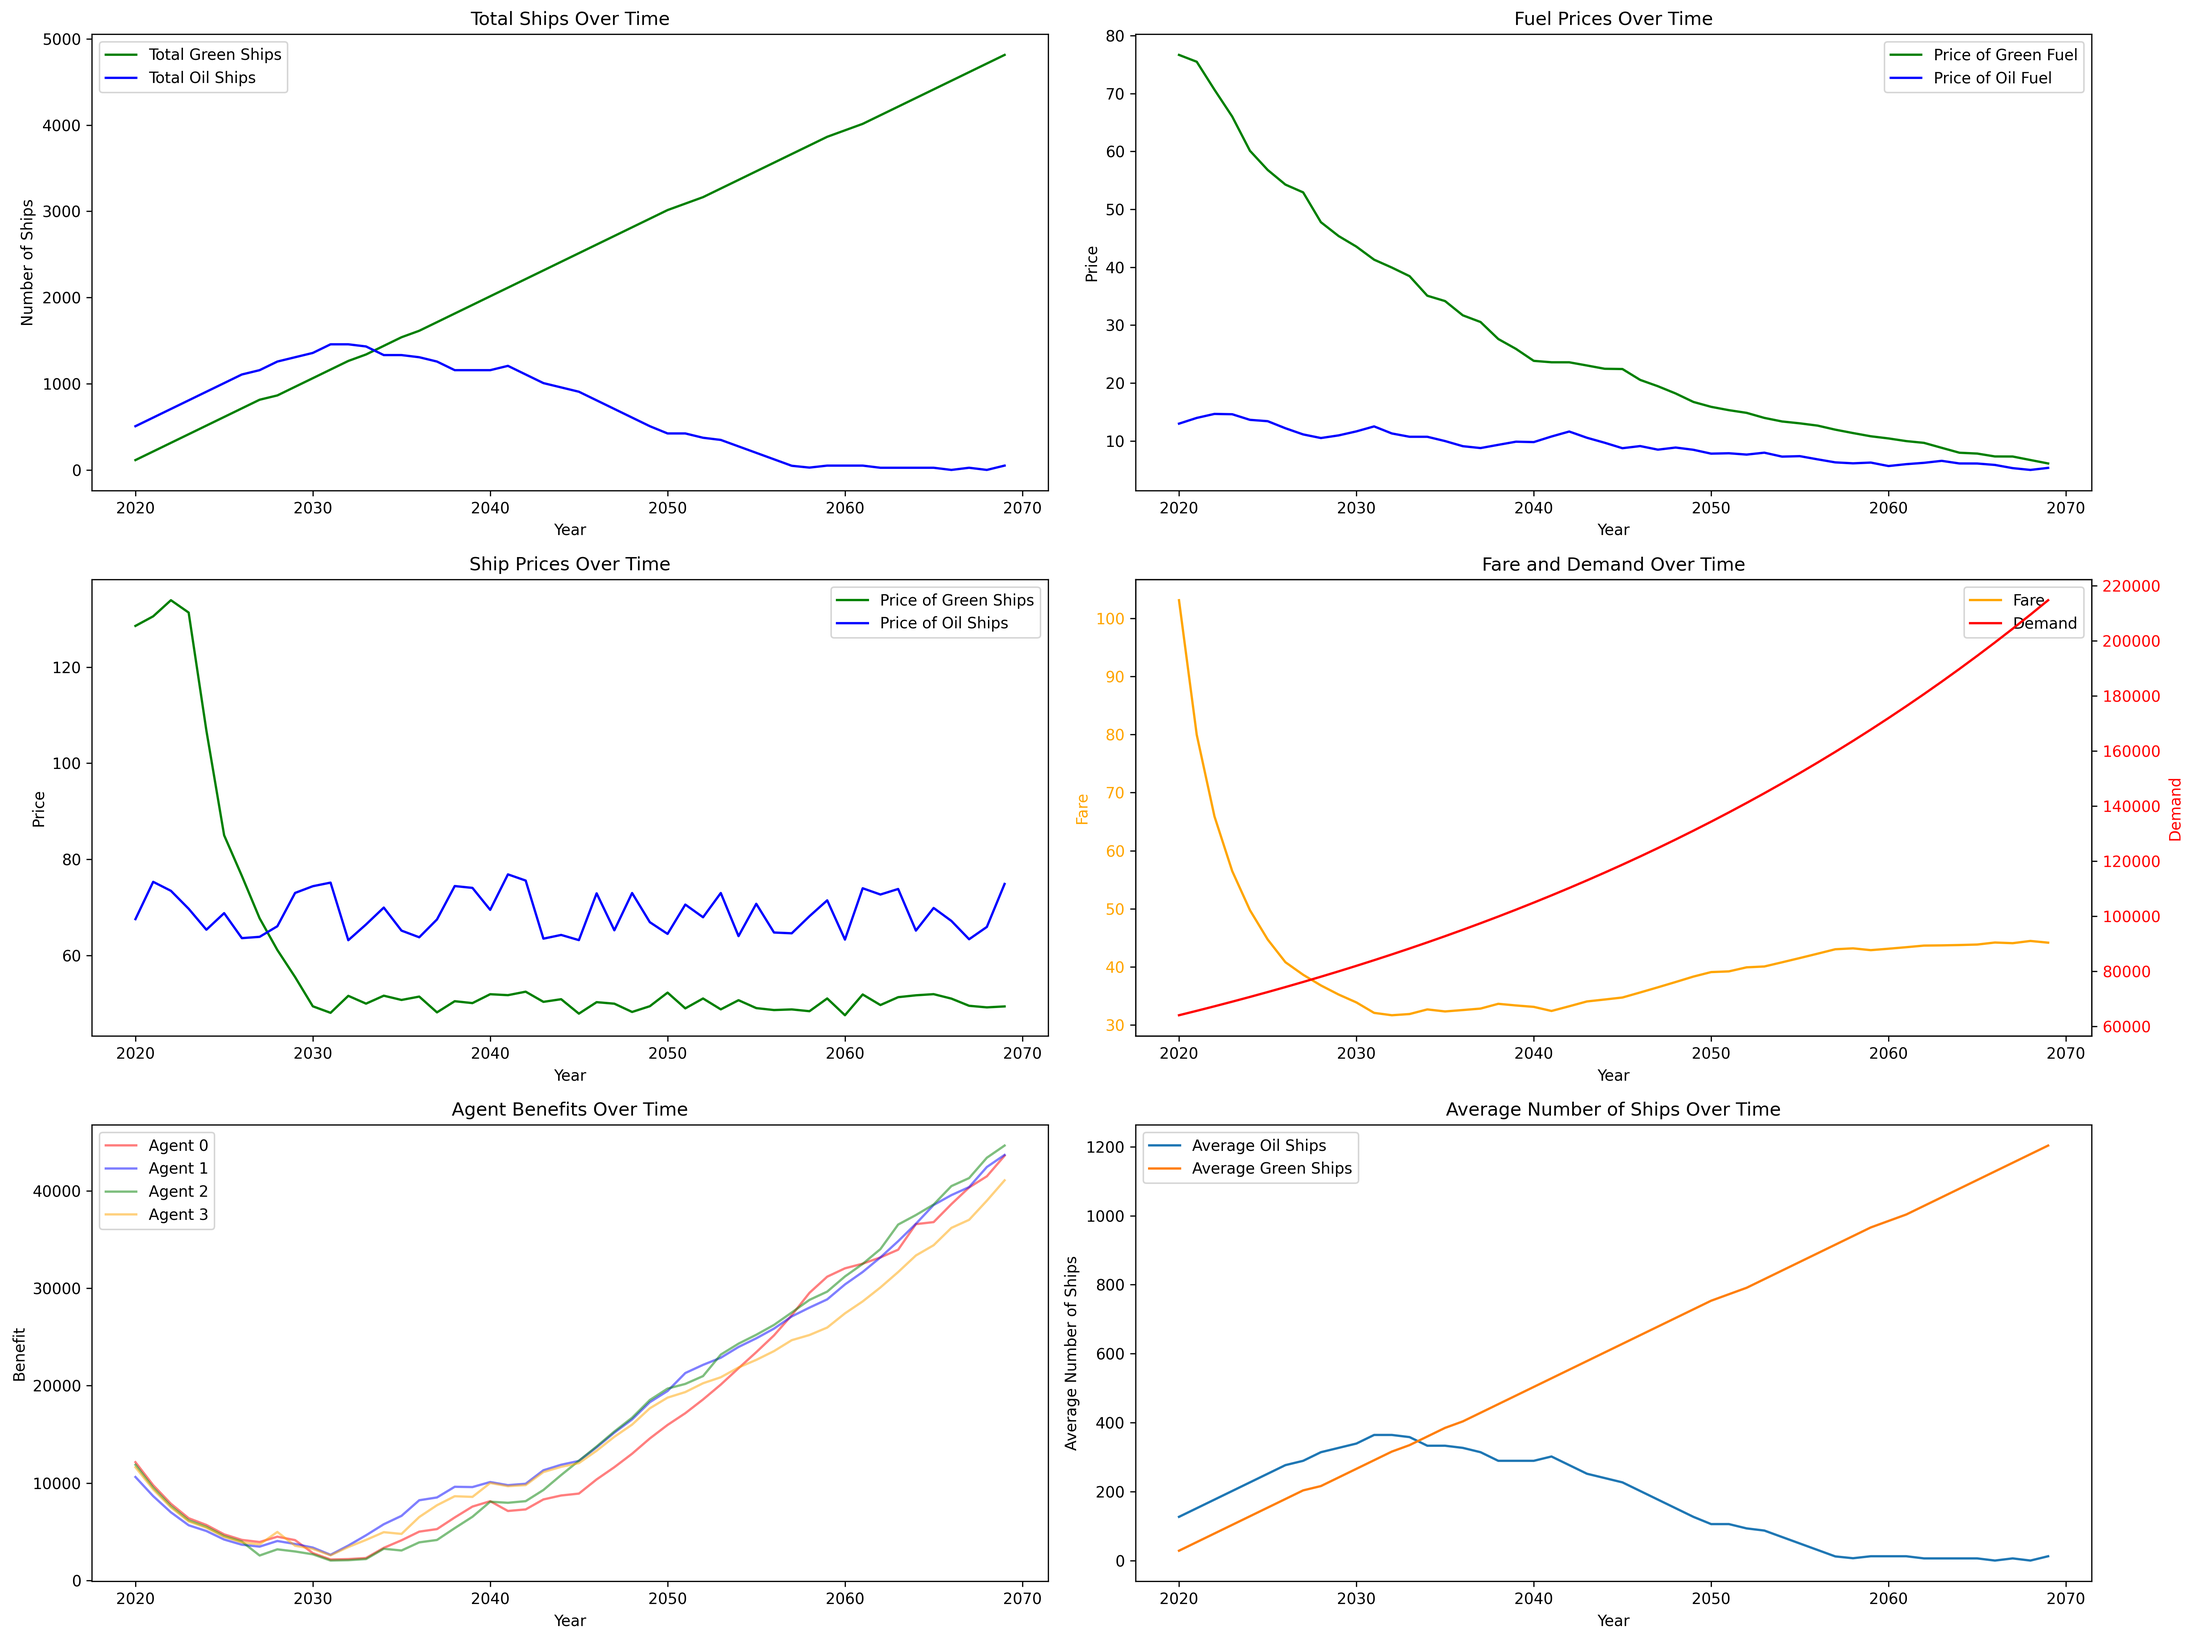
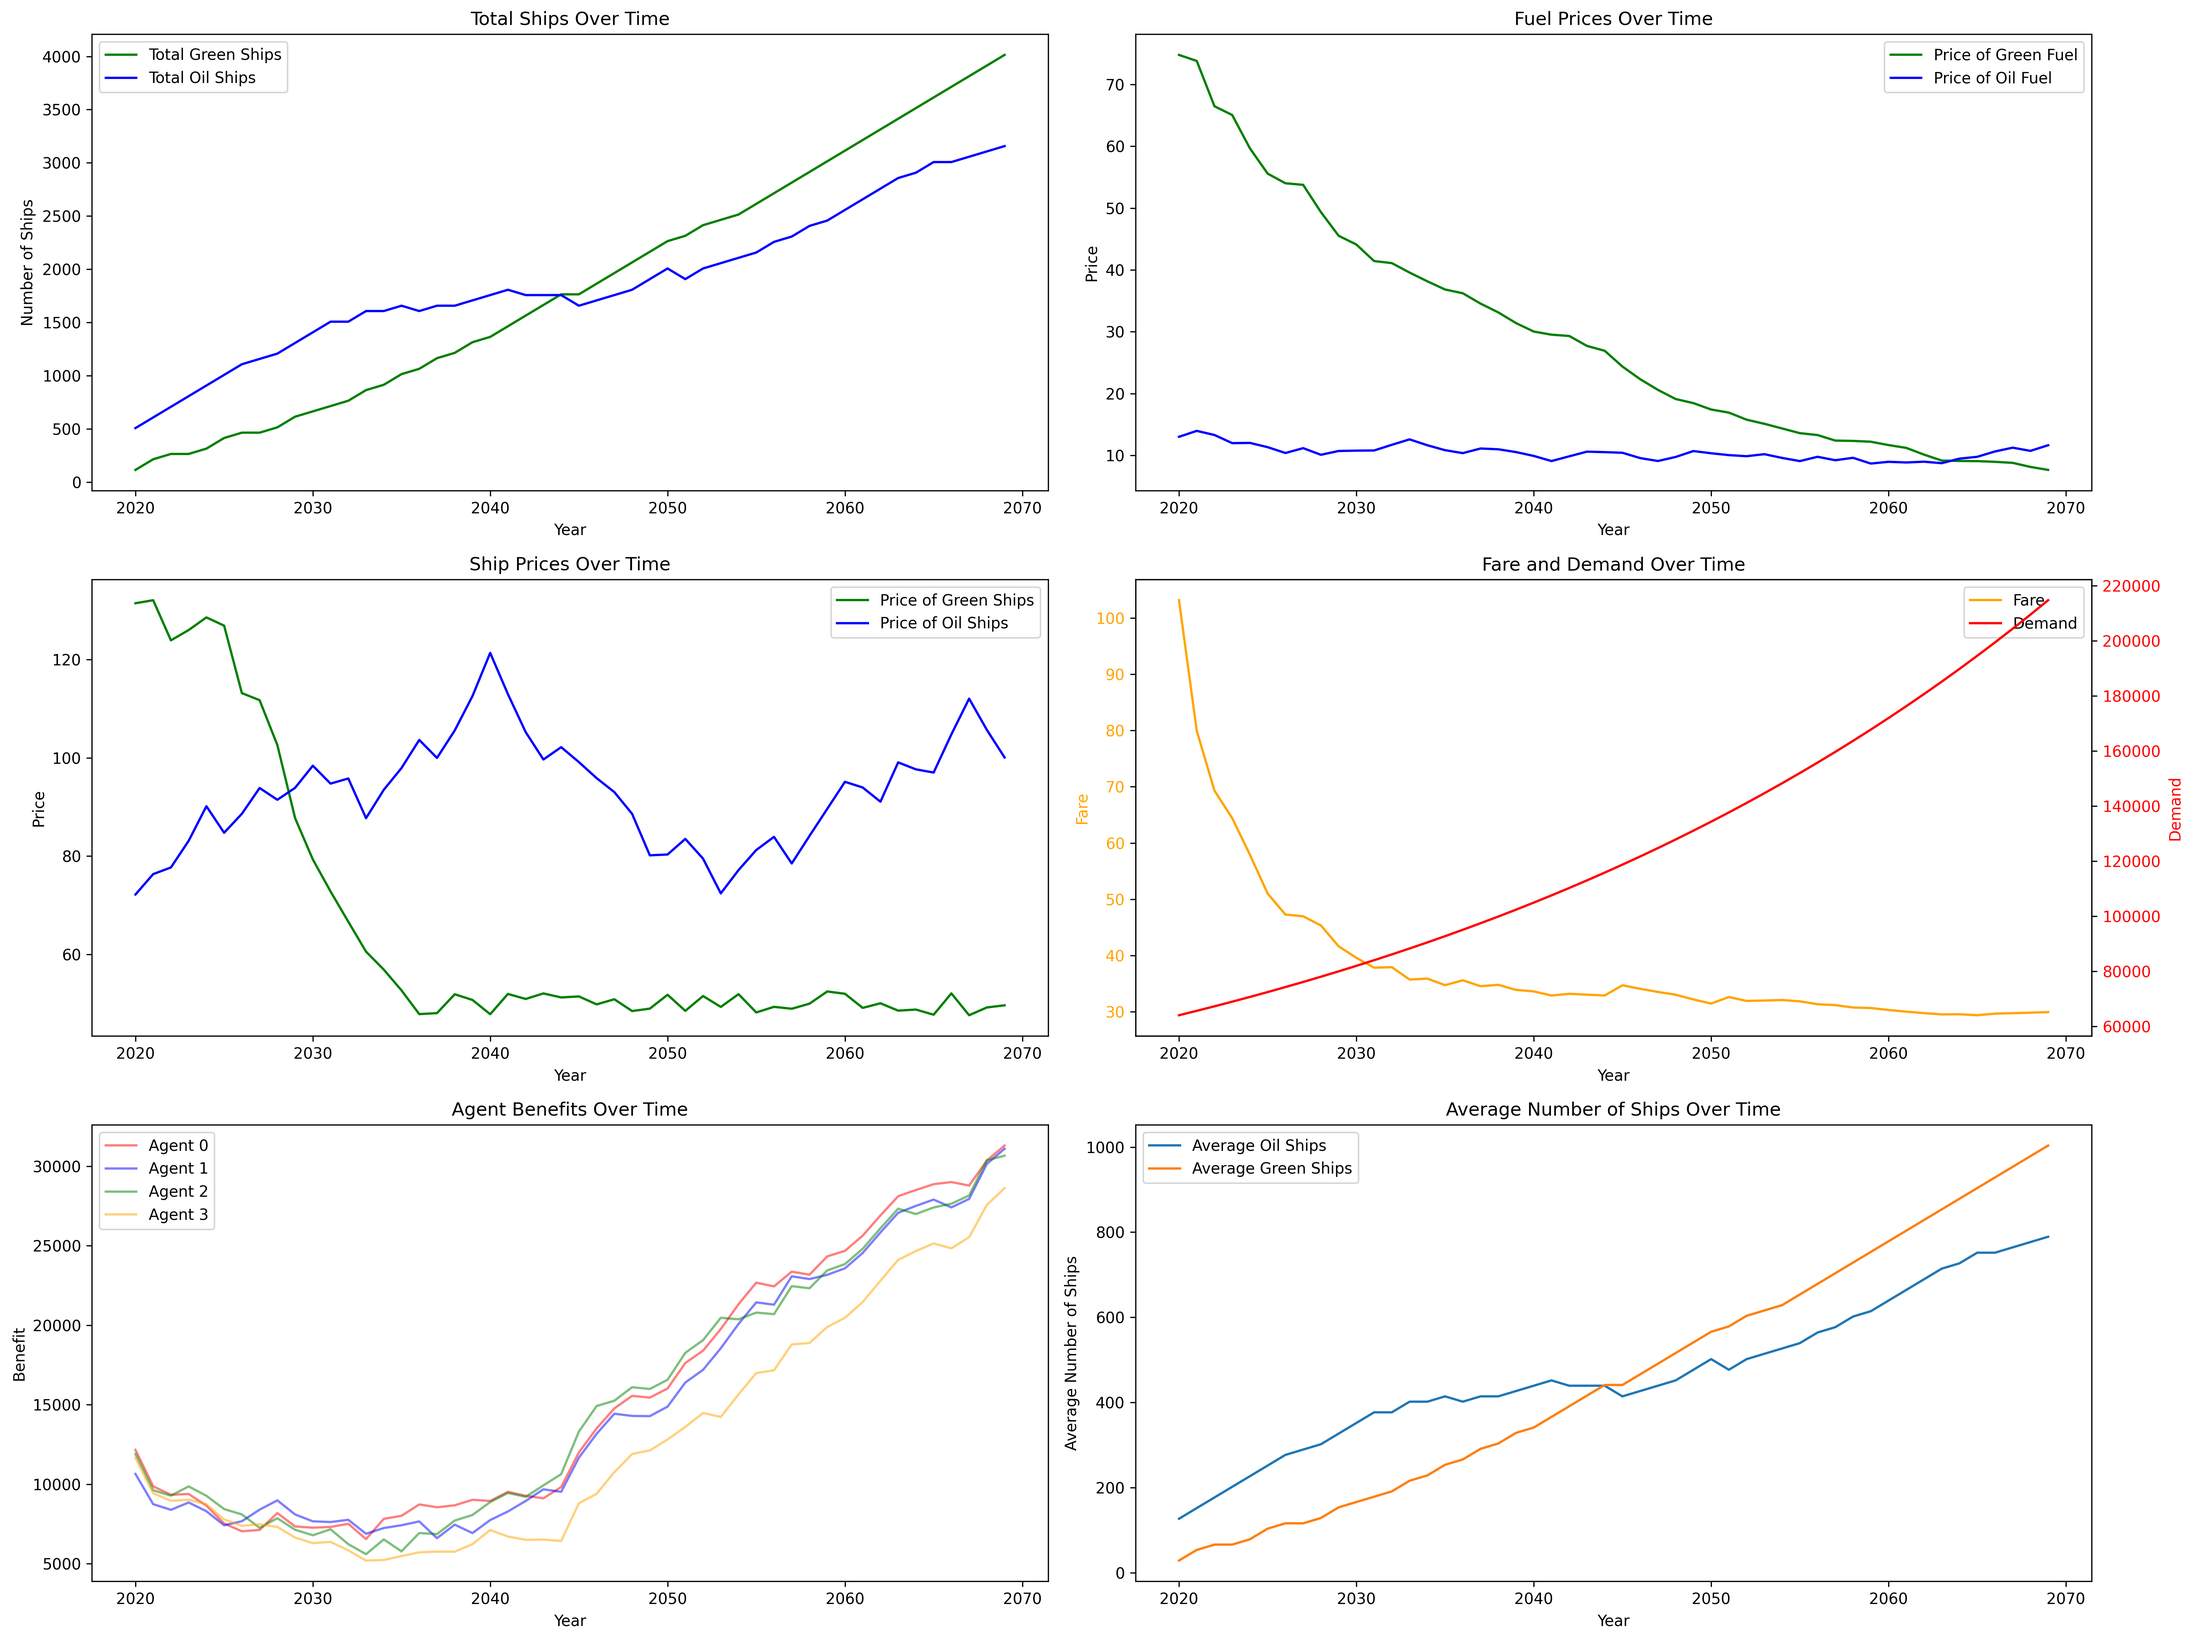
fix: NPVにfareも考慮するように; ランダムウォークをきちんとした

diff --git a/base.py b/base.py
@@ -26,9 +26,9 @@ class Agent:
         n_green_old = self.n_green
         n_oil_old = self.n_oil
 
-        past_years = random.randint(1, 5)
+        past_years = random.randint(1, 3)
         future_years = random.randint(1, 5)
-        max_benefit = 0
+        max_benefit = -1e9
         best_diff_oil = 0
         best_diff_green = 0
 
@@ -45,7 +45,8 @@ class Agent:
                 predict_benefits = 0
                 for i in range(future_years):
                     predict_costs = (n_oil + diff_oil*i) * (1/20*env.pv_oil + env.p_oil) + (n_green + diff_green*i) * (1/20*env.pv_green + env.p_green)
-                    predict_sales = (n_oil + diff_oil*i + n_green + diff_green*i) * env.fare
+                    predict_fare = env.fare * 1.025 ** (i + 1) * env.total_n / (predict_n_oils[i] + predict_n_greens[i])
+                    predict_sales = (n_oil + diff_oil*i + n_green + diff_green*i) * predict_fare
                     predict_benefits += (predict_sales - predict_costs - predict_penalties[i] + predict_rebates[i]) * (1 - DISCOUNT_RATE) ** (i + 1)
                 if predict_benefits > max_benefit:
                     max_benefit = predict_benefits
@@ -163,14 +164,12 @@ class Env:
         return sum(agent.n_green for agent in self.agents)
 
     def market(self):
-        random_walker = random.uniform(-0.10, 0.10)
-        self.p_oil = self.p_oil * (1 + random_walker)
-        self.pv_oil = 70 * (1 + random_walker)
+        self.p_oil *= 1 + random.uniform(-0.10, 0.10)
+        self.pv_oil *= 1 + random.uniform(-0.10, 0.10)
 
         self.p_green = self.p_green * (1 + random.uniform(-0.10, 0))
 
-        random_walker = random.uniform(-0.05, 0.05)
-        self.pv_green = max(min(130 ,130*102.5*4/(self.total_n_green+1)),50) *(1+random_walker) # 102.5*4 = totl_nの初期値期待値
+        self.pv_green = max(min(130 ,130*102.5*4/(self.total_n_green+1)),50) *(1+random.uniform(-0.05, 0.05)) # 102.5*4 = totl_nの初期値期待値
 
     def feebate(self):
         feebate_rate = self.feebate_rate
@@ -215,9 +214,9 @@ class Simulation:
         self.initial_pv_green = 180  # 最初のgreen船の価格
         self.initial_pv_oil = 70  # 最初のoil船の価格
         self.initial_fare = 144.8  # 最初の運賃
-        self.initial_feebate_rate = 1  # フィーベイト率
+        self.initial_feebate_rate = 0.5  # フィーベイト率
 
-        self.FEEBATE_CHANGE_RATE = 0.1  # フィーベイト率の変化率
+        self.FEEBATE_CHANGE_RATE = 0  # フィーベイト率の変化率
 
         # N人のエージェントを作成
         self.agents = [Agent(i) for i in range(self.N)]
